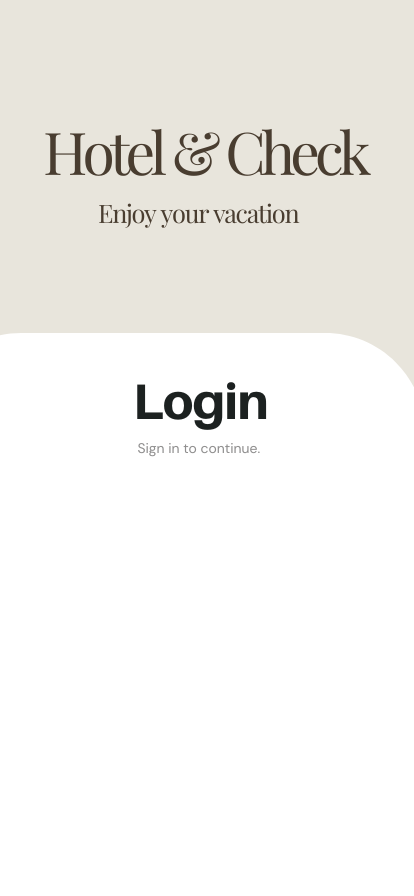
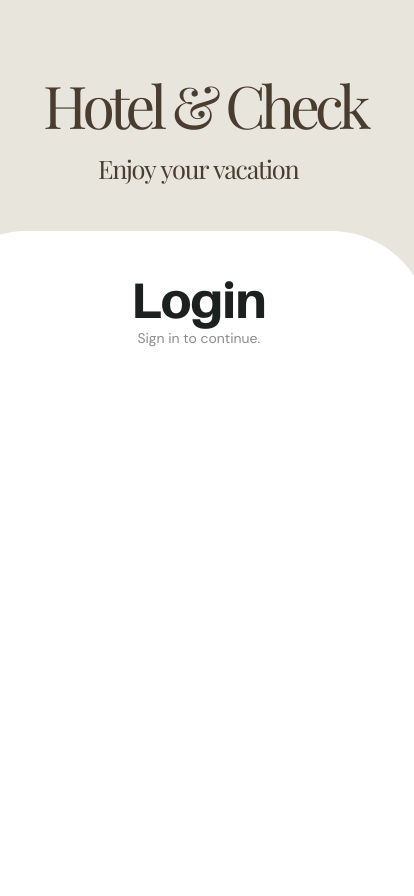
Update

diff --git a/app/Screen/CreateNewAccuont.js b/app/Screen/CreateNewAccuont.js
@@ -9,18 +9,23 @@ export default function LoginScreen() {
   return (
     <ImageBackground
     style={styles.background}
-    source={require('../assets/login.png')}>
+    source={require('../assets/newaccount.png')}>
     <View style={styles.textInput}>
 
-      <AppText style={styles.text}> name </AppText>
+      <AppText style={styles.text}> Name </AppText>
     <AppTextInput placeholder="user name"/>
-    
-    <AppText style={styles.text}>password</AppText>
+
+    <AppText style={styles.text}>Email</AppText>
+    <AppTextInput placeholder="hello@gmail.com"/>
+
+    <AppText style={styles.text}> Password </AppText>
     <AppTextInput placeholder="********"/>
+
+    <AppText style={styles.text}>Date of Birthday</AppText>
+    <AppTextInput placeholder="13/12/1992"/>
     </View>
     <View style={styles.buttonContainer}>
-      <AppButton title="loging"/>
-      <AppButton title='create new accuont' color='backgroundcolor'/>
+      <AppButton title="sign up"/>
       </View> 
       
       
@@ -40,9 +45,9 @@ const styles = StyleSheet.create({
     marginLeft:'15%',
   },
   textInput:{
-    paddingTop:'100%',
+    paddingTop:'70%',
     width:'80%',
-    paddingLeft:70,
+    paddingLeft:75,
   },
   text:{
     color:colors.litegray,

diff --git a/App.js b/App.js
@@ -13,6 +13,7 @@ import ListingDetiailsScreen from './app/Screen/ListingDetiailsScreen';
 import MessagesScreen from './app/Screen/MessagesScreen';
 import AppTextInput from './app/component/AppTextInput';
 import{useState}from "react";
+import CreateNewAccuont from './app/Screen/CreateNewAccuont';
 
 export default function App() {
   return (
@@ -29,7 +30,11 @@ export default function App() {
 
   //<WelcomeScreen></WelcomeScreen>
 
-   <LoginScreen></LoginScreen>
+   //<LoginScreen></LoginScreen>
+
+   <CreateNewAccuont></CreateNewAccuont>
+   
+   
 
   // <View style={{
   //     padding:20,
